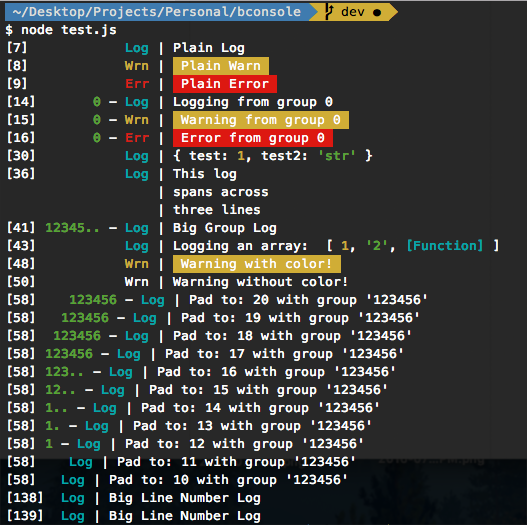
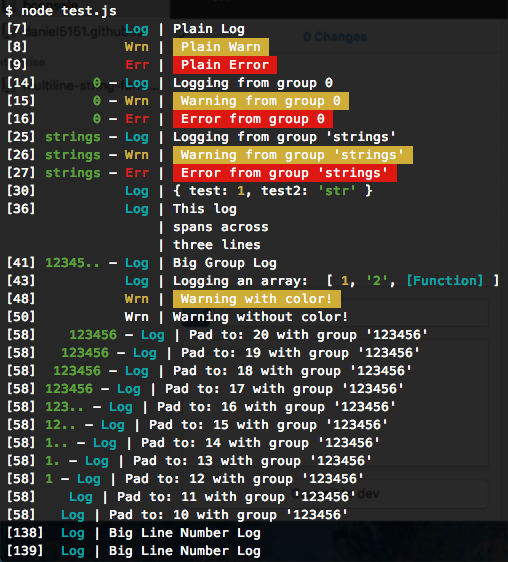
updated demo

diff --git a/test.js b/test.js
@@ -22,9 +22,9 @@ bconsole.glog(0, "Won't print");
 // Groups can be strings too
 bconsole.toggleGroup("strings");
 
-bconsole.glog('string', "Logging from group 'string'");
-bconsole.gwarn('string', "Warning from group 'string'");
-bconsole.gerror('string', "Error from group 'string'");
+bconsole.glog('strings', "Logging from group 'strings'");
+bconsole.gwarn('strings', "Warning from group 'strings'");
+bconsole.gerror('strings', "Error from group 'strings'");
 
 // Logs objects using util.inspect()
 bconsole.log({
